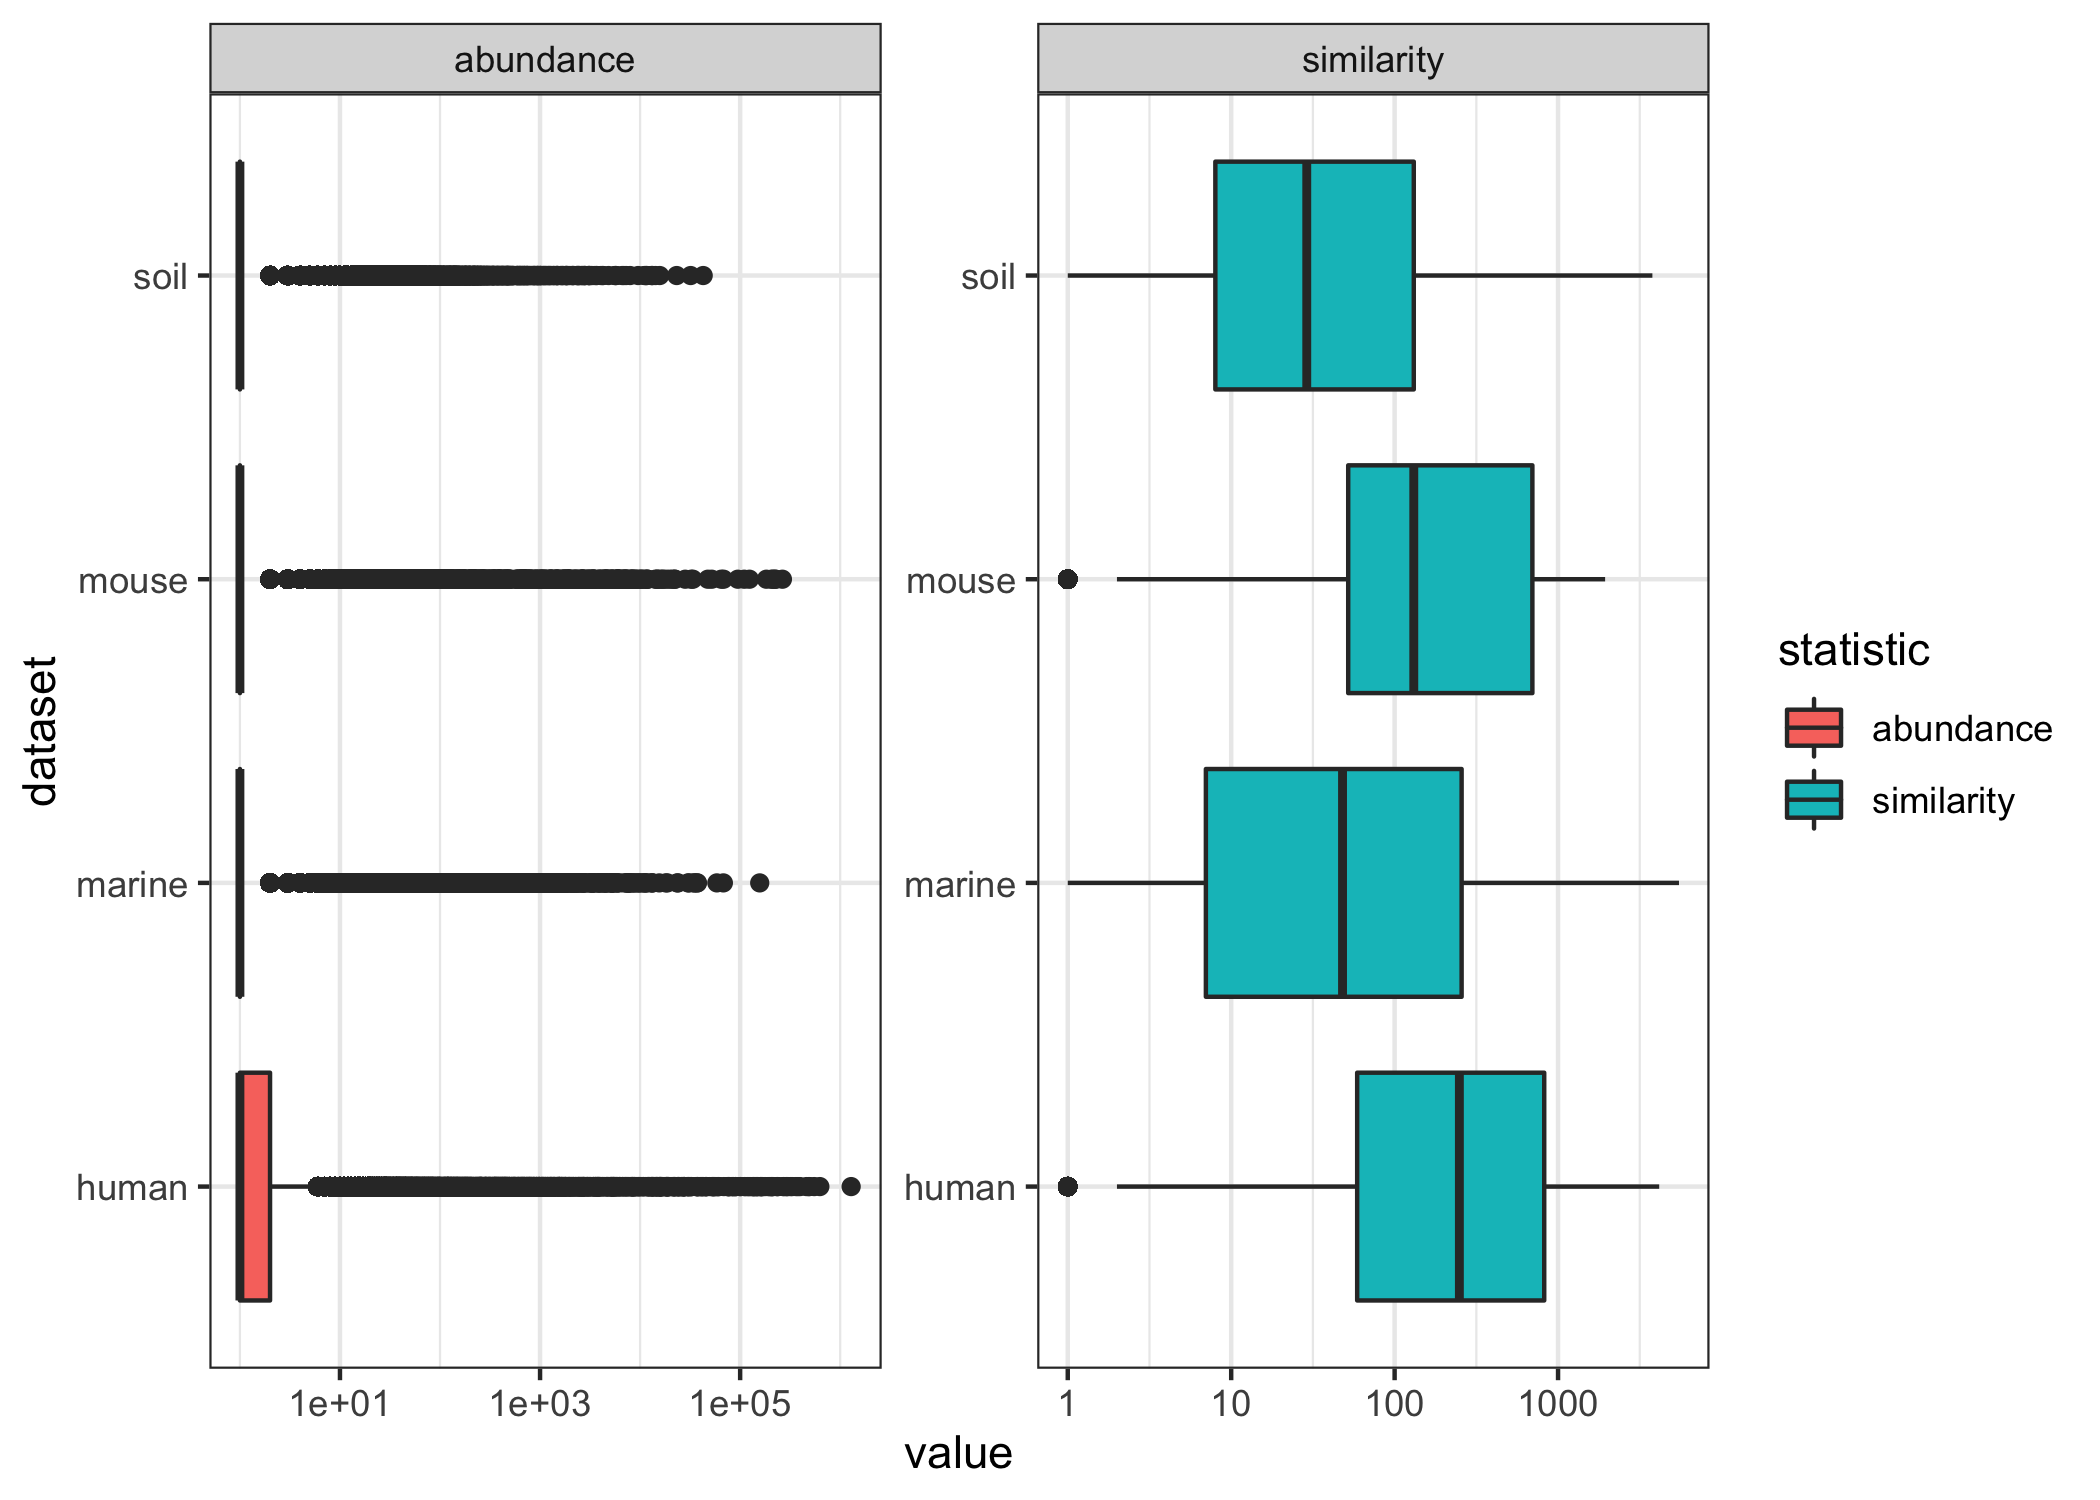
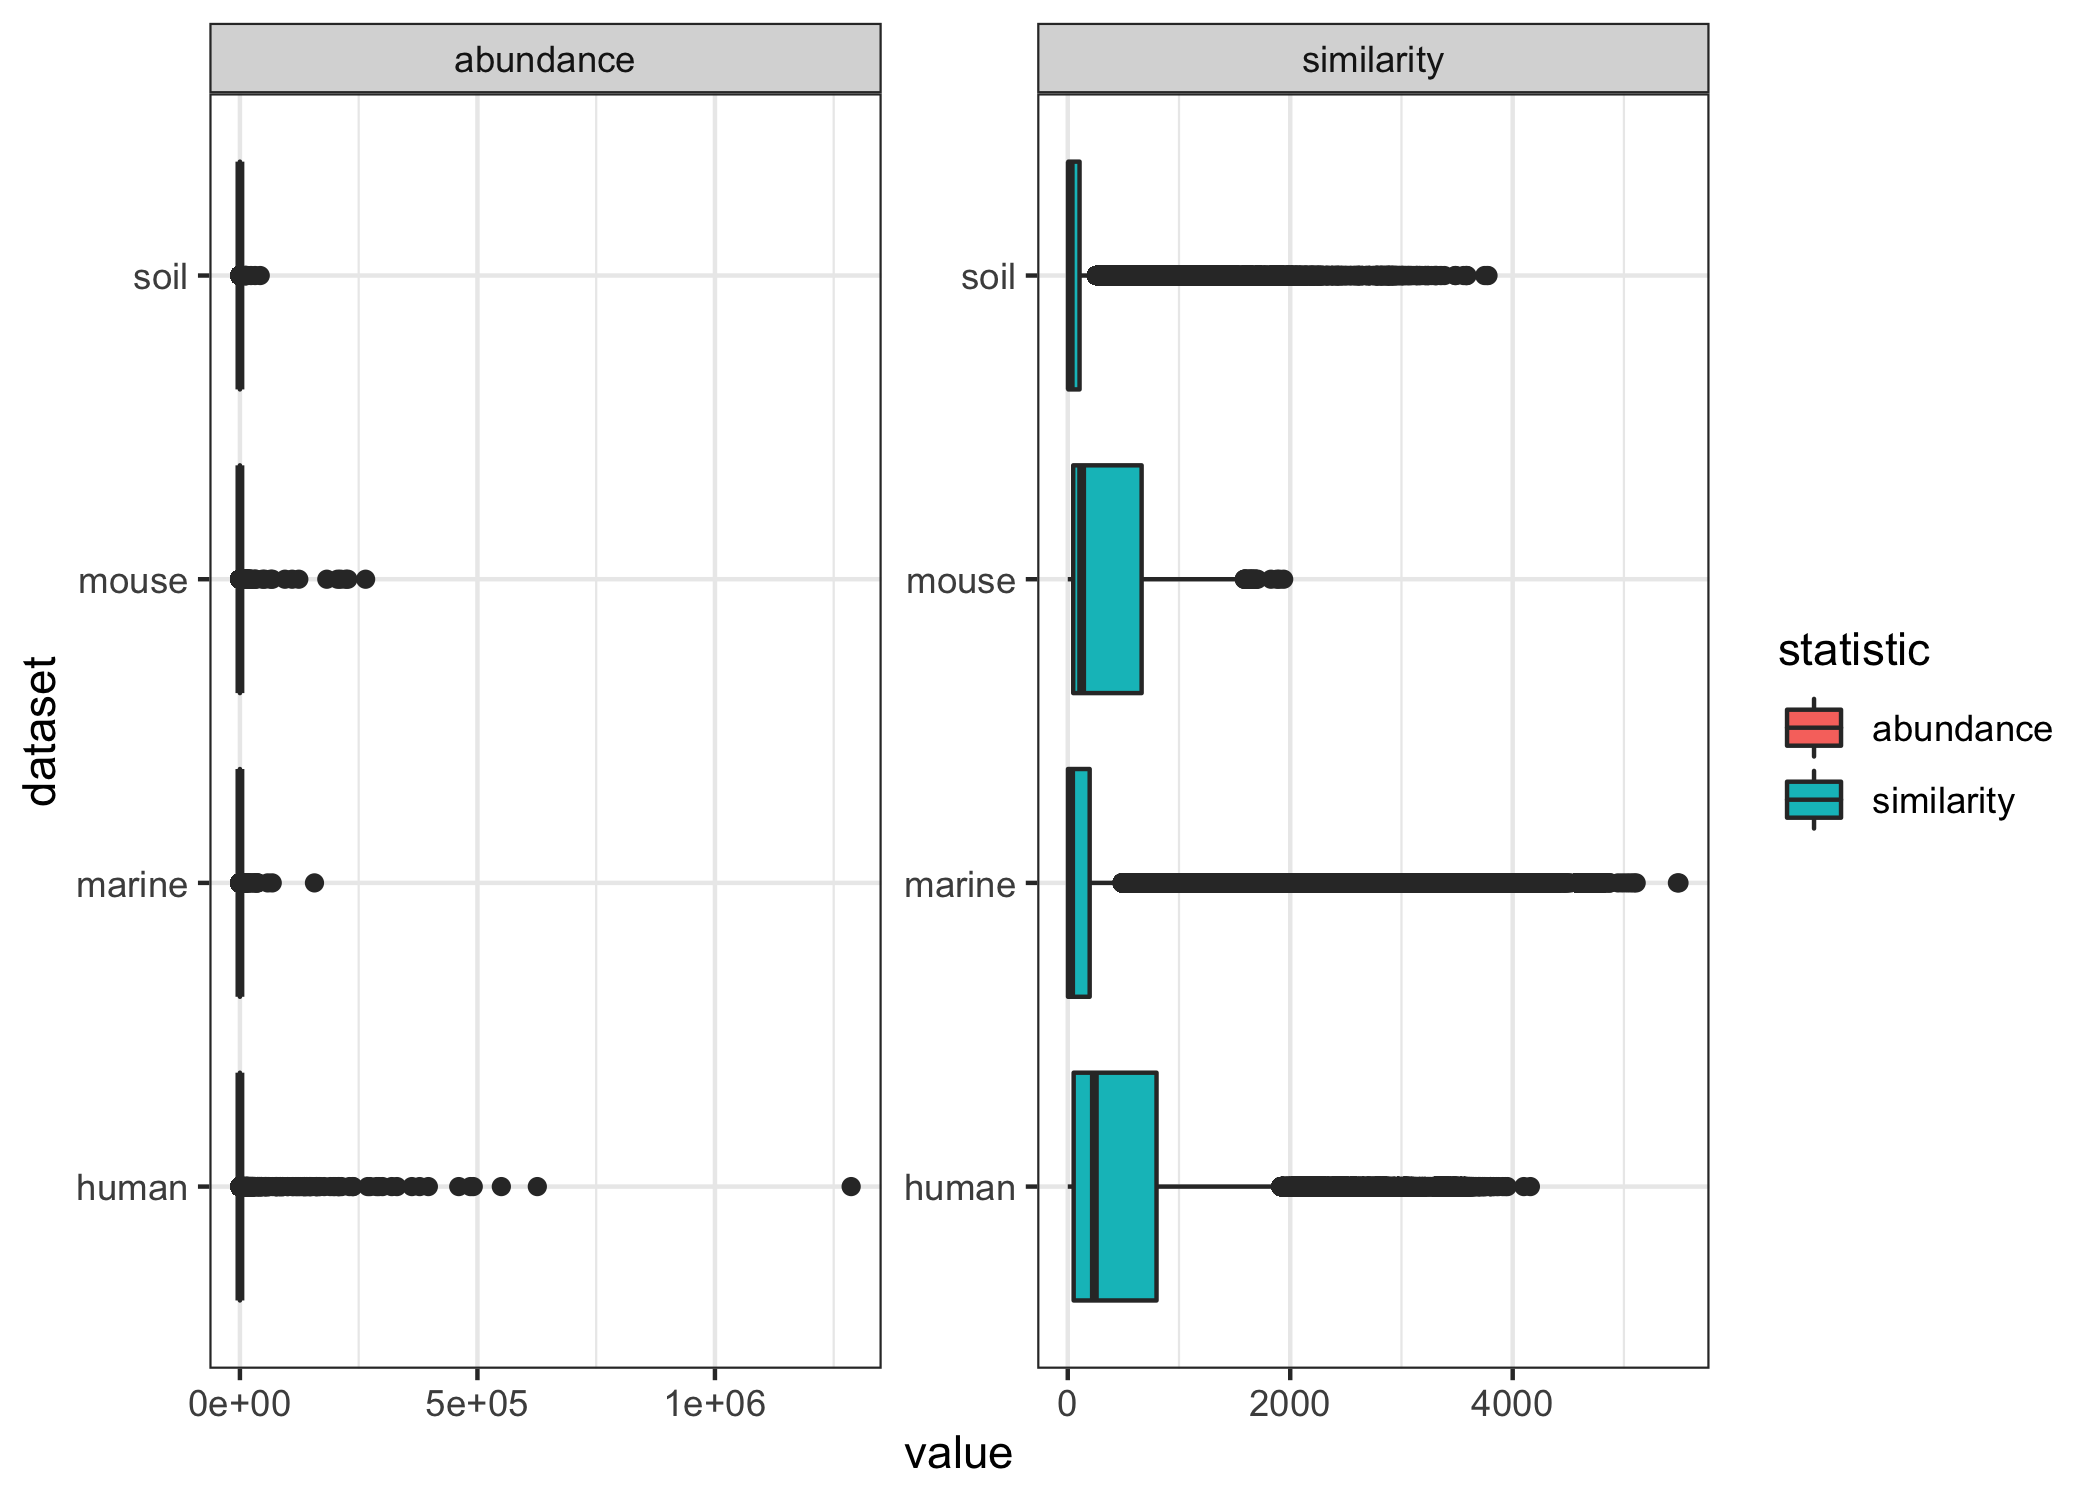
Calculate relative values & summary stats

diff --git a/exploratory/2021/seq_stats.md b/exploratory/2021/seq_stats.md
@@ -1,6 +1,17 @@
-2021-10-21
+2021-10-22
 
 # Similarity & Abundance of Sequences
+
+Each sequence has an absolute abundance and similarity value, where
+similarity is the count of other sequences within the dataset that it is
+similar to per the 0.03 distance threshold. I was wondering if the
+distributions of those values would have some pattern that corresponded
+to what we see with the MCC scores for weighting by those methods. There
+isn’t anything obviously weird or wrong. For all datasets most sequences
+are very low abundance (expected). Both marine and soil have a much
+lower median similarity value than human and mouse, and the marine and
+soil datasets also have a huge spread in MCC between open & closed with
+similarity weighting.
 
 ``` r
 set.seed(20211021)
@@ -17,7 +28,7 @@ seq_stats <- c("human","marine","mouse","soil") %>% map_dfr(function(x) {
 }) %>% pivot_longer(c(similarity, abundance), names_to = 'statistic')
 ```
 
-## histograms
+### histograms
 
 ``` r
 seq_stats %>% 
@@ -27,8 +38,6 @@ seq_stats %>%
 ```
 
 ![](figures/hist_sim_abun-1.png)<!-- -->
-
-### log10
 
 ``` r
 seq_stats %>% 
@@ -44,7 +53,16 @@ seq_stats %>%
 
 ![](figures/hist_sim_abun_log10-1.png)<!-- -->
 
-## boxplots
+### boxplots
+
+``` r
+seq_stats %>% 
+  ggplot(aes(x=value, y=dataset, fill=statistic)) +
+  geom_boxplot() +
+  facet_wrap('statistic', scales = 'free')
+```
+
+![](figures/box_sim_abun-1.png)<!-- -->
 
 ``` r
 seq_stats %>% 
@@ -58,9 +76,9 @@ seq_stats %>%
 
     ## Warning: Removed 34675 rows containing non-finite values (stat_boxplot).
 
-![](figures/box_sim_abun-1.png)<!-- -->
+![](figures/box_sim_abun_log10-1.png)<!-- -->
 
-## abundance vs similarity
+### abundance vs similarity
 
 ``` r
 seq_stats %>% 
@@ -72,3 +90,128 @@ seq_stats %>%
 ```
 
 ![](figures/point_abun_sim-1.png)<!-- -->
+
+## relative abundance & simlarity
+
+``` r
+totals <- seq_stats %>%
+  pivot_wider(names_from = statistic) %>% 
+  group_by(dataset) %>% 
+  summarize(tot_simi = sum(similarity),
+            tot_abun = sum(abundance))
+
+rel_stats <- c("human", "marine", "mouse", "soil") %>% map_dfr(function(x) {
+  read_tsv(glue('subworkflows/1_prep_samples/data/{x}/seq_stats.tsv')) %>% 
+    mutate(dataset = x,
+           rel_sim = similarity / (totals %>% 
+                                     filter(dataset == x) %>% 
+                                     pull(tot_simi)),
+           rel_abun = abundance / (totals %>% 
+                                     filter(dataset == x) %>% 
+                                     pull(tot_abun))
+           )
+})
+```
+
+### rel abun vs rel sim
+
+``` r
+rel_stats %>% 
+  ggplot(aes(x = rel_abun, y = rel_sim, color = dataset)) +
+  geom_point(alpha=0.7) +
+  facet_wrap('dataset')
+```
+
+![](figures/point_rel_abun_sim-1.png)<!-- -->
+
+``` r
+rel_stats %>% 
+  ggplot(aes(x = rel_abun, y = rel_sim, color = dataset)) +
+  geom_point(alpha=0.7) +
+  scale_x_log10() +
+  facet_wrap('dataset')
+```
+
+![](figures/point_rel_abun_sim_log10-1.png)<!-- -->
+
+### relative boxplots
+
+``` r
+rel_stats %>% pivot_longer(c(rel_sim, rel_abun), names_to = 'statistic') %>% 
+  ggplot(aes(x=value, y=dataset, fill=statistic)) +
+  geom_boxplot() +
+  facet_wrap('statistic', scales = 'free')
+```
+
+![](figures/box_rel_sim_abun-1.png)<!-- -->
+
+``` r
+rel_stats %>% pivot_longer(c(rel_sim, rel_abun), names_to = 'statistic') %>% 
+  ggplot(aes(x=value, y=dataset, fill=statistic)) +
+  geom_boxplot() +
+  scale_x_log10() +
+  facet_wrap('statistic', scales = 'free')
+```
+
+    ## Warning: Transformation introduced infinite values in continuous x-axis
+
+    ## Warning: Removed 34675 rows containing non-finite values (stat_boxplot).
+
+![](figures/box_rel_sim_abun_log10-1.png)<!-- -->
+
+### relative histograms
+
+``` r
+rel_stats %>%  pivot_longer(c(rel_sim, rel_abun), names_to = 'statistic') %>% 
+  ggplot(aes(x=value, fill=statistic)) +
+  geom_histogram() +
+  facet_wrap("dataset")
+```
+
+![](figures/hist_rel_sim_abun-1.png)<!-- -->
+
+``` r
+rel_stats %>%  pivot_longer(c(rel_sim, rel_abun), names_to = 'statistic') %>% 
+  ggplot(aes(x=value, fill=statistic)) +
+  geom_histogram() +
+  scale_x_log10() +
+  facet_wrap("dataset")
+```
+
+    ## Warning: Transformation introduced infinite values in continuous x-axis
+
+    ## Warning: Removed 34675 rows containing non-finite values (stat_bin).
+
+![](figures/hist_rel_sim_abun_log10-1.png)<!-- -->
+
+## summary stats
+
+``` r
+rel_stats %>% 
+  group_by(dataset) %>% 
+  summarize_at(vars(abundance), 
+               list(min=min, median=median, mean=mean, max=max)) %>% 
+  knitr::kable()
+```
+
+| dataset | min | median |      mean |     max |
+|:--------|----:|-------:|----------:|--------:|
+| human   |   1 |      1 | 158.58380 | 1286715 |
+| marine  |   1 |      1 |  15.16795 |  156918 |
+| mouse   |   1 |      1 |  78.77425 |  264594 |
+| soil    |   1 |      1 |   5.71222 |   42712 |
+
+``` r
+rel_stats %>% 
+  group_by(dataset) %>% 
+  summarize_at(vars(similarity), 
+               list(min=min, median=median, mean=mean, max=max)) %>% 
+  knitr::kable()
+```
+
+| dataset | min | median |     mean |  max |
+|:--------|----:|-------:|---------:|-----:|
+| human   |   0 |    239 | 614.9974 | 4159 |
+| marine  |   0 |     26 | 374.8955 | 5495 |
+| mouse   |   0 |    125 | 380.7253 | 1941 |
+| soil    |   0 |     22 | 136.0720 | 3778 |
